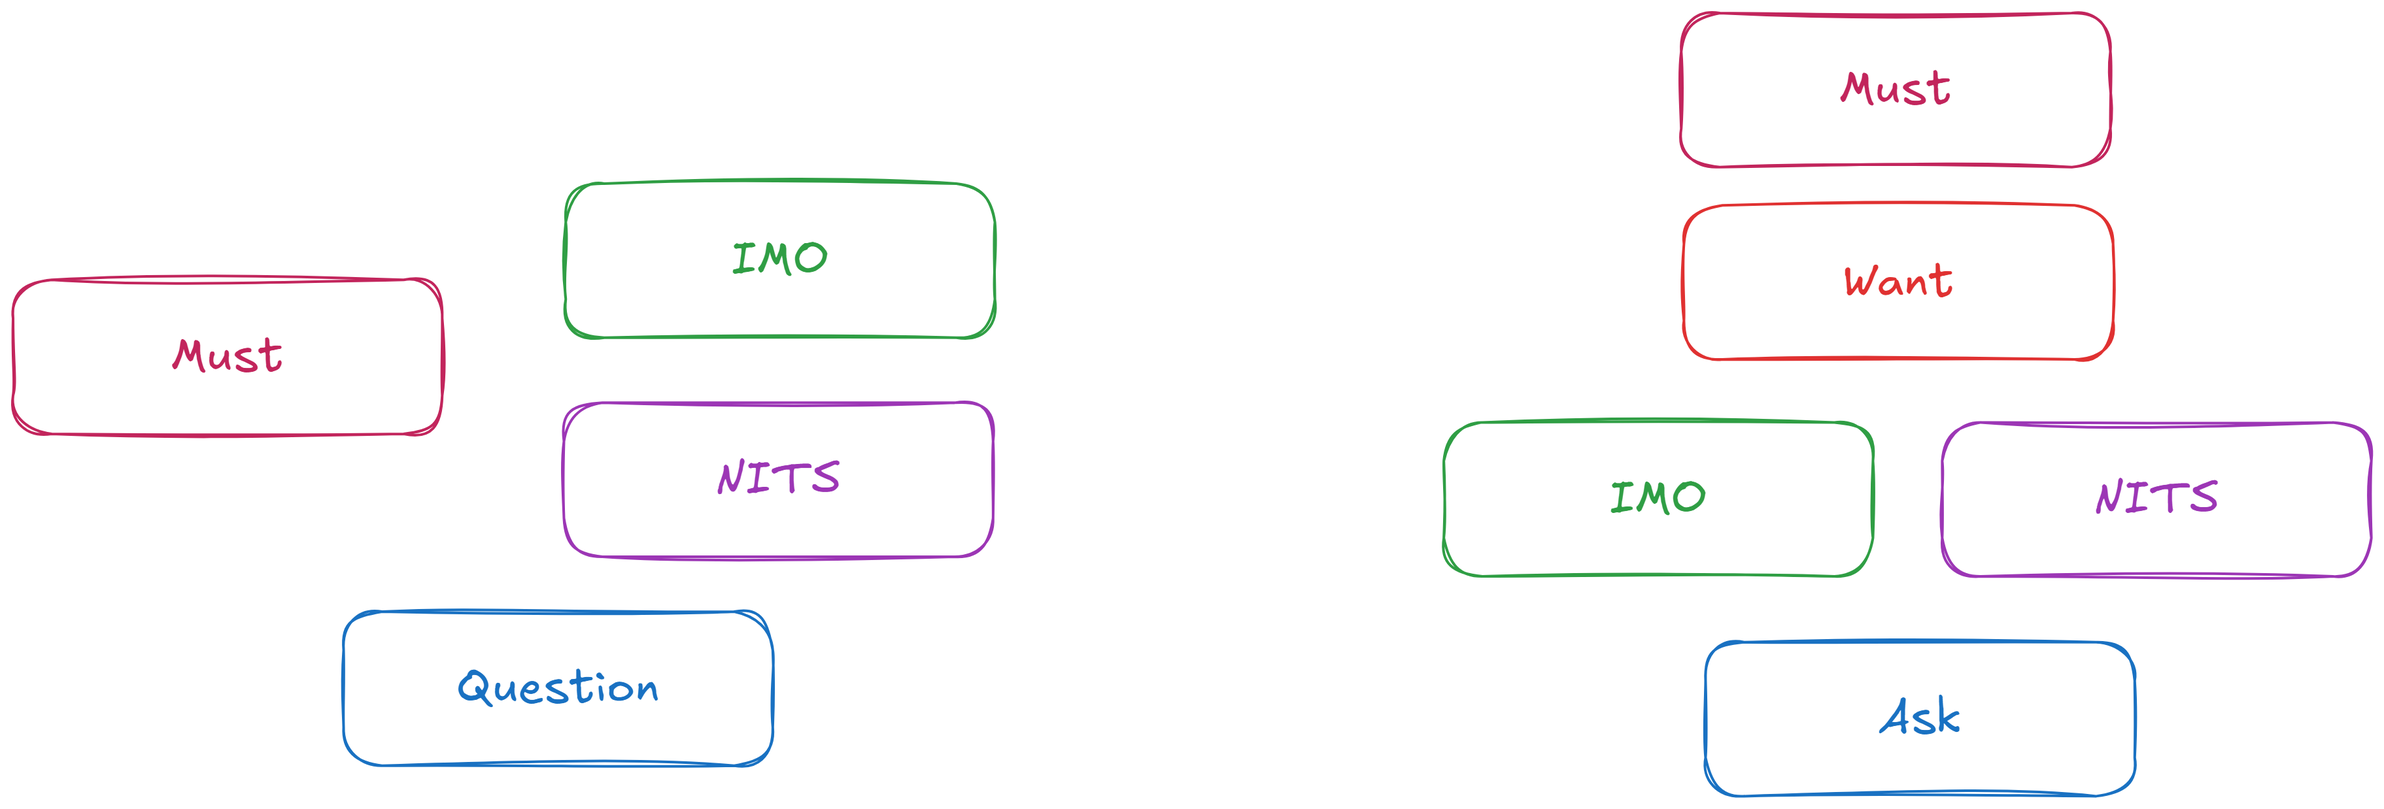
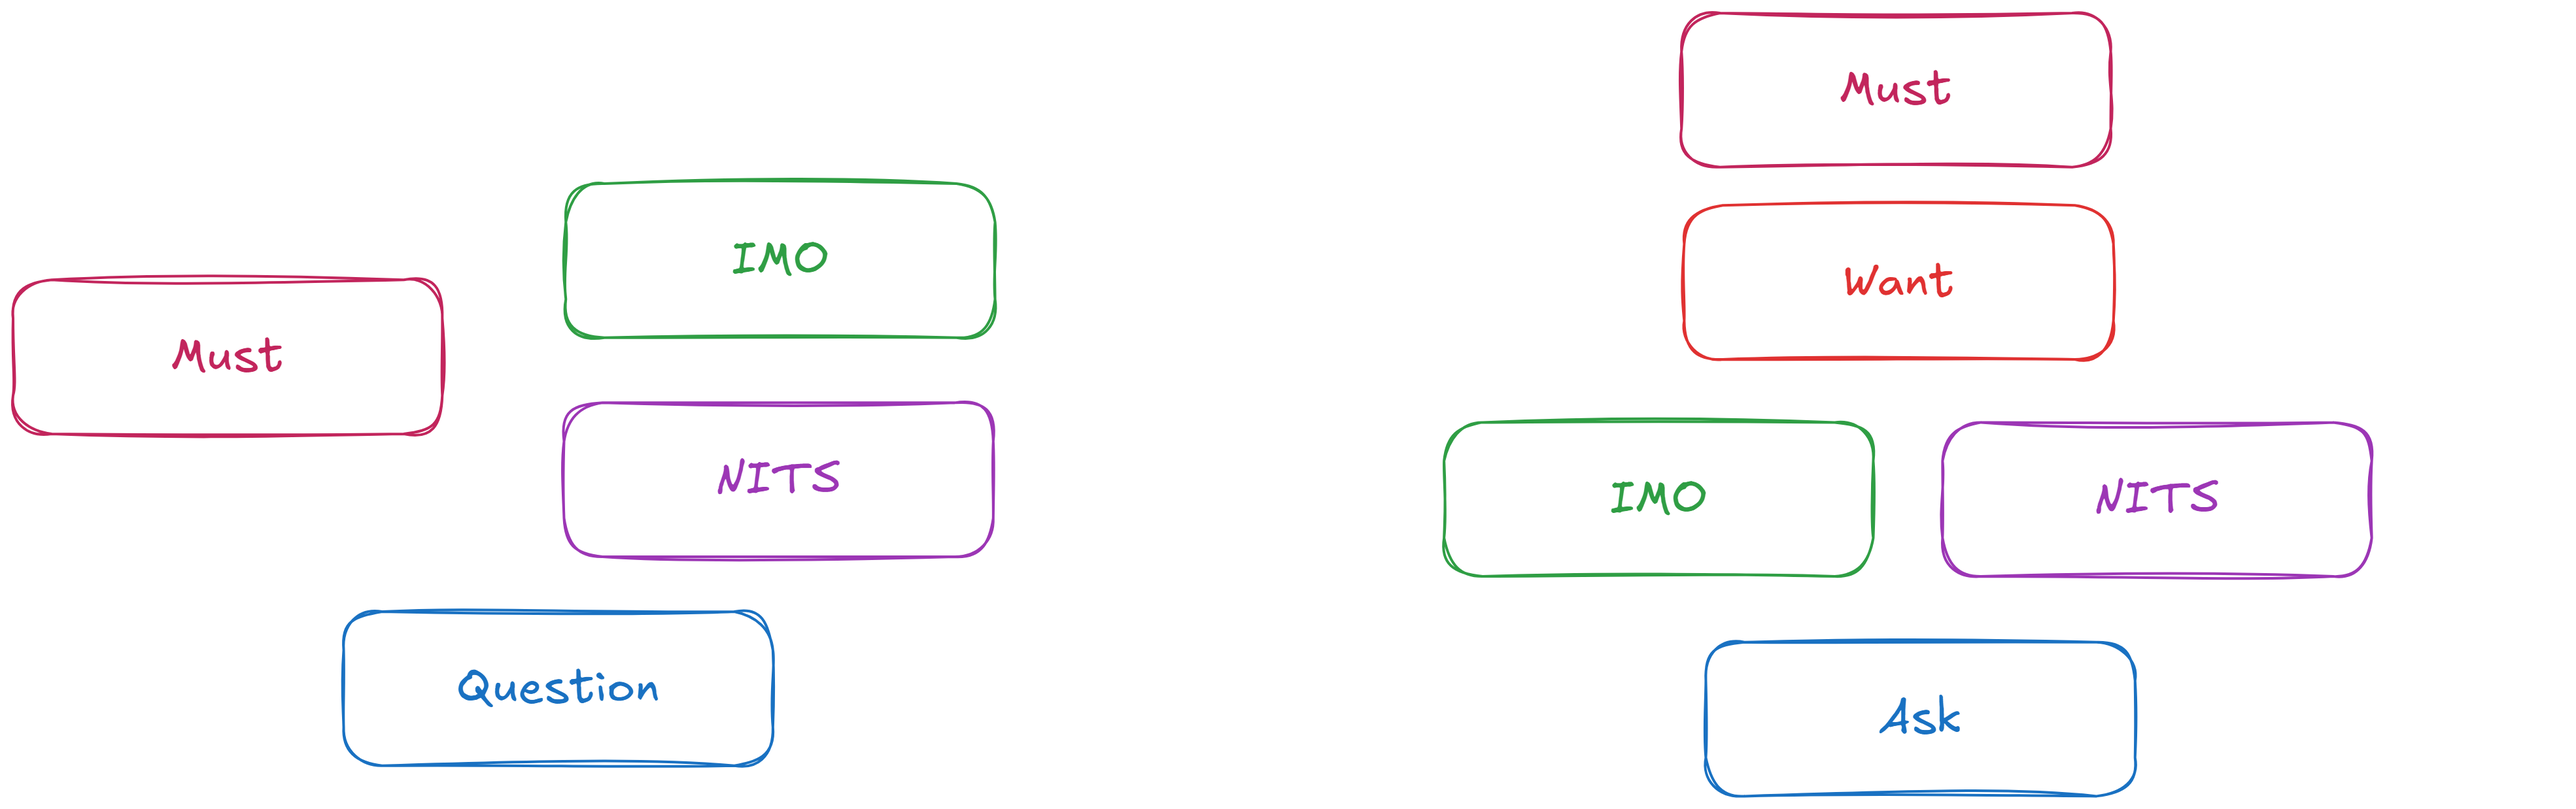
構成を見直し

diff --git a/review-comment/styles/mod.css b/review-comment/styles/mod.css
@@ -19,3 +19,21 @@ div#app h3 {
     opacity: 0.7;
   }
 }
+
+div#app h4 {
+  position: relative;
+  margin-top: 1.5rem;
+  z-index: 10;
+
+  &::after {
+    content: "";
+    position: absolute;
+    bottom: 0;
+    left: -6px;
+    width: 100%;
+    height: 60%;
+    z-index: -1;
+    background-color: var(--c-secondary);
+    filter: blur(2px);
+  }
+}

diff --git a/review-comment/slides.md b/review-comment/slides.md
@@ -60,7 +60,7 @@ layout: center
 
 ## 問題点について
 
-- IMOとNITSの変更要望度が人によって異なる
+- IMOとNITSの使い方が人によって異なる
 - Questionが多用され着地点が分からないコメントがある
 
 <img src="/image/review.png" width="400" style="margin: 64px 0 0 auto; mix-blend-mode: plus-lighter;" alt="人によって利用するラベルが違うことを表した図">
@@ -79,9 +79,17 @@ layout: center
 
 話し合うと、ラベルは変更してほしい度合いで使い分けていたことが分かった。
 
-- ラベルの振り分けを変更要望度を基準にする
-- IMOとNITSを同じ要望度とする
-- Wantというラベルを追加
+なのでざっくり下記のような対応を行うことに。
+
+#### IMOとNITSの変更要望度が人によって異なる 
+
+- ラベルの使い分けを変更要望度を軸としたものに
+- レイヤーが分かれるようにラベルを定義する
+
+#### Questionが多用され着地点が分からないコメントがある
+
+- 質問っぽい指摘を無くす
+- 質問としてコメントされた場合はコードの変更はしない
 
 ---
 
@@ -89,13 +97,13 @@ layout: center
 
 <img src="/image/label.png" style="background-color: rgb(51 51 51 / 70%);padding: 32px;margin-top: 16px;border-radius: 16px;" alt="ラベルの整理を表した図、Must/IMO/NITS/Questionがバラバラから、Must/Want/IMO or NITS/Askという順になっている">
 
-<!-- https://excalidraw.com/#json=XxwxcWFp166lkW-pgMbuu,nLzak3elk7rny1Mxf_HFRQ -->
+<!-- https://excalidraw.com/#json=JdU3mJdujM7nVJ8mr9tjw,lWGc1uSH_X9UrSXUQH6pjQ -->
 
 変更要望度に合わせてラベルを整理してみた。
 
 ---
 
-### Questionが多用され着地点が分からないコメントがある
+### IMOとNITSの変更要望度が人によって異なる
 
 ある程度整理できたので、変更要望度を軸にドキュメントに記載。
 
@@ -106,21 +114,27 @@ layout: center
 | IMO / NITS | 49%-1%     | （主観的な）より良い書き方の提案                 |
 | Ask        | 0%         | 質問                                             |
 
----
-layout: section
----
-
-## 質問が結局残ってますよ？
+どういった場面で利用するのかなどもある程度書いておく。
 
 ---
+layout: center
+---
 
-## 質問が結局残ってますよ？
+## Questionが多用され着地点が分からないコメントがある
+
+---
+
+## Questionが多用され着地点が分からないコメントがある
 
 純粋な質問まで禁止してしまうのは厳しいのでラベルは残すことになった。
 
-- 難しそうな実装部分はモブレビューを実施してそのログを残すことに
+その上で指摘は指摘として他のラベルを使ってもらうように。
+
+- 難しそうな実装部分はモブレビューを実施してそのログを残す
 - 「大丈夫そうですか？」みたいな変更を期待した質問はNGに
 - レビューコメントの書き方を工夫して「質問っぽい指摘」になるのを避ける
+
+<img src="/image/question.png" alt="" width="400" style="margin: 0 0 0 auto">
 
 ---
 
